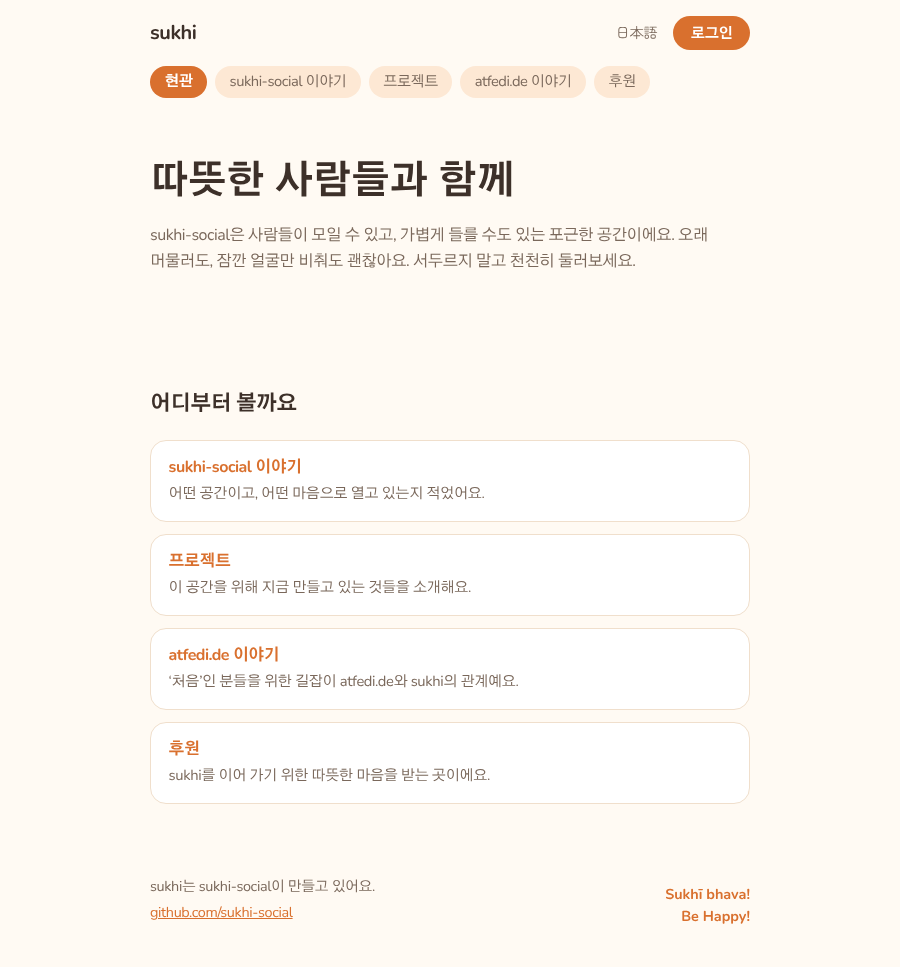
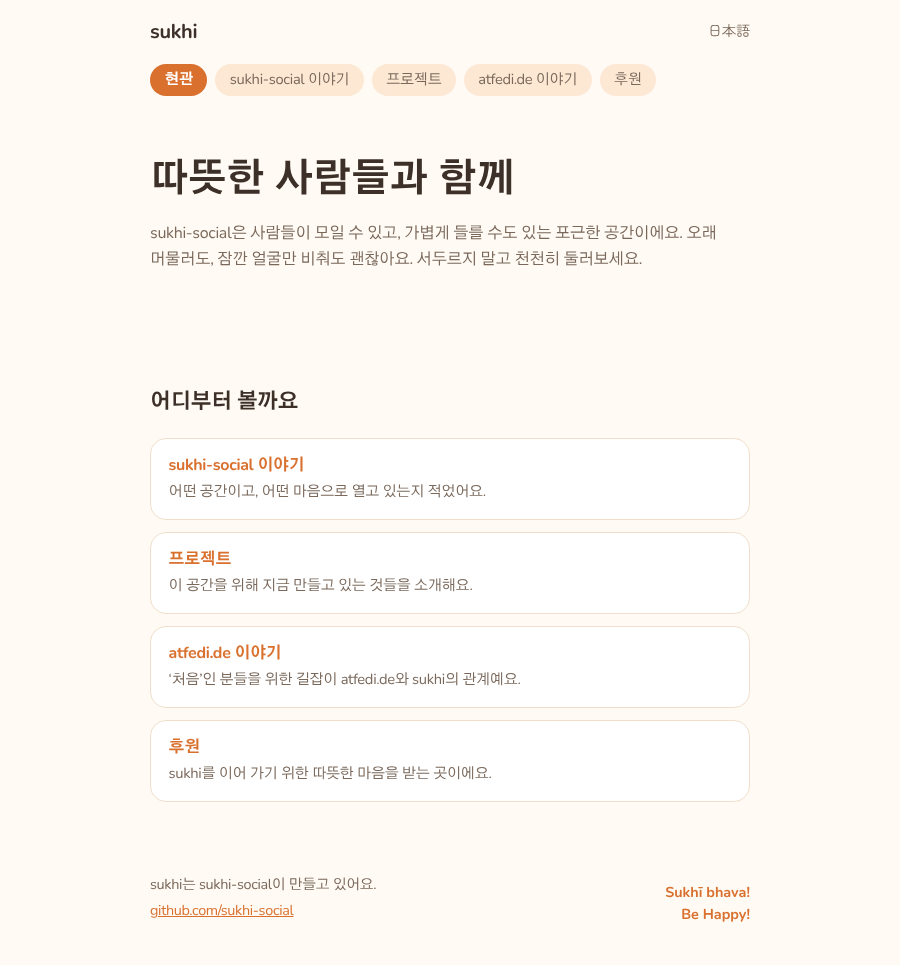
Hide the login button for now (TODO: show once the instance is up); Korean letter-spacing back to -0.02em
Claude-Session: https://claude.ai/code/session_01EUxHZau6UP3xLAsGqKBsmf

diff --git a/src/styles/about.css b/src/styles/about.css
@@ -89,10 +89,8 @@ main { min-height: 50vh; }
 .bar .right { display: flex; align-items: center; gap: 1rem; }
 .button.small { padding: 0.3rem 1.1rem; font-size: 0.9rem; line-height: 1.7; }
 
-/* 韓国語(Gothic A1)は、字間をつめて(-0.03em)、行間を 1.6 に。 */
-html:lang(ko) body { letter-spacing: -0.03em; line-height: 1.6; }
-/* いちばん小さい本文(カードの説明・フッター)だけ、少しゆるめる。 */
-html:lang(ko) .cards span, html:lang(ko) footer { letter-spacing: -0.025em; }
+/* 韓国語(Gothic A1)は、字間をつめて(-0.02em)、行間を 1.6 に。 */
+html:lang(ko) body { letter-spacing: -0.02em; line-height: 1.6; }
 /* スローガン(玄関の大見出し)だけは、字間を調整しない。 */
 html:lang(ko) .hero h1 { letter-spacing: normal; }
 code { font-size: 0.92em; background: var(--accent-soft); padding: 0.05em 0.4em; border-radius: 0.4em; }
@@ -104,7 +102,7 @@ html:lang(ja) .tabs, html:lang(ja) .cards span, html:lang(ja) .facts, html:lang(
 
 /* 404 は、日本語と韓国語を 1 枚にならべるので、区切りごとに言語の字間を当てる。 */
 .lost section:lang(ja) { letter-spacing: 0.075em; }
-.lost section:lang(ko) { letter-spacing: -0.03em; line-height: 1.6; }
+.lost section:lang(ko) { letter-spacing: -0.02em; line-height: 1.6; }
 .lost section:lang(ko) h1 { letter-spacing: normal; }
 
 /* 右下のひとこと。英語の祈りなので、字間はそのまま。 */

diff --git a/src/content.ts b/src/content.ts
@@ -7,6 +7,10 @@
 // ここだけを本当の場所に差し替える(いまは仮)。
 export const LOGIN_URL = 'https://sukhi.social/login';
 
+// TODO: インスタンス(sukhi.social)が上がったら true にして、ログインのボタンを出す。
+//       そのとき LOGIN_URL も本当のリンク先か確かめる。
+export const SHOW_LOGIN = false;
+
 export const ORG_URL = 'https://github.com/sukhi-social';
 export const FEDI_REPO_URL = 'https://github.com/sukhi-social/sukhi-fedi';
 export const ATFEDI_URL = 'https://atfedi.de';

diff --git a/README.md b/README.md
@@ -16,7 +16,7 @@ pnpm check    # astro check
 ```
 
 - 言葉は `src/content.ts` にまとめてあります(ja が正本、ko は同じ形で)。
-- ログインのリンク先 `LOGIN_URL` は仮です。sukhi.social が動いたら差し替えます。
+- ログインのボタンは、いまは非表示です(`src/content.ts` の `SHOW_LOGIN`)。**TODO**: インスタンス(sukhi.social)が上がったら `SHOW_LOGIN = true` にして、`LOGIN_URL`(いまは仮)も本当のリンク先に直す。
 - Astro にした理由: 静的な紹介ページで動く部品がなく、必要なら Svelte の島をあとから足せるためです。
 
 ライセンスは AGPL-3.0-or-later です。
